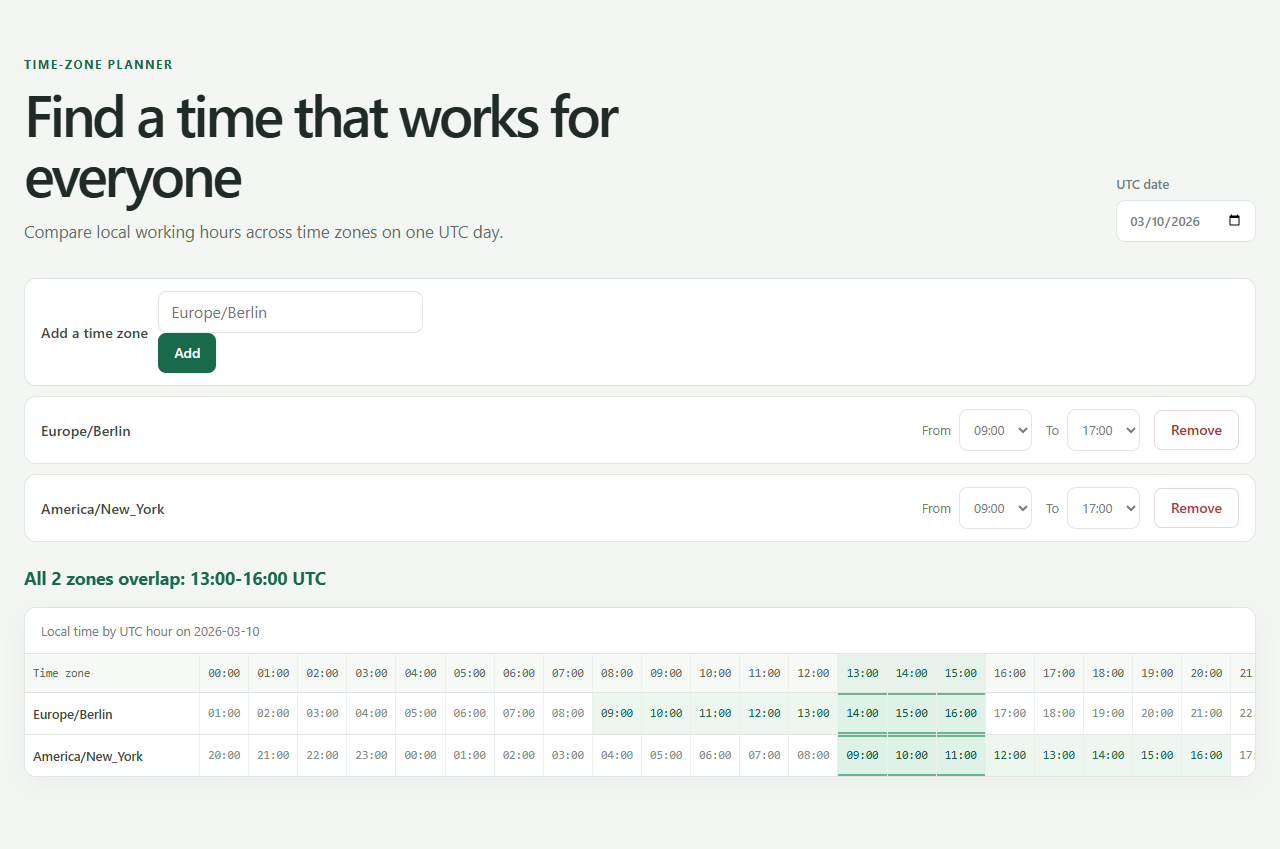
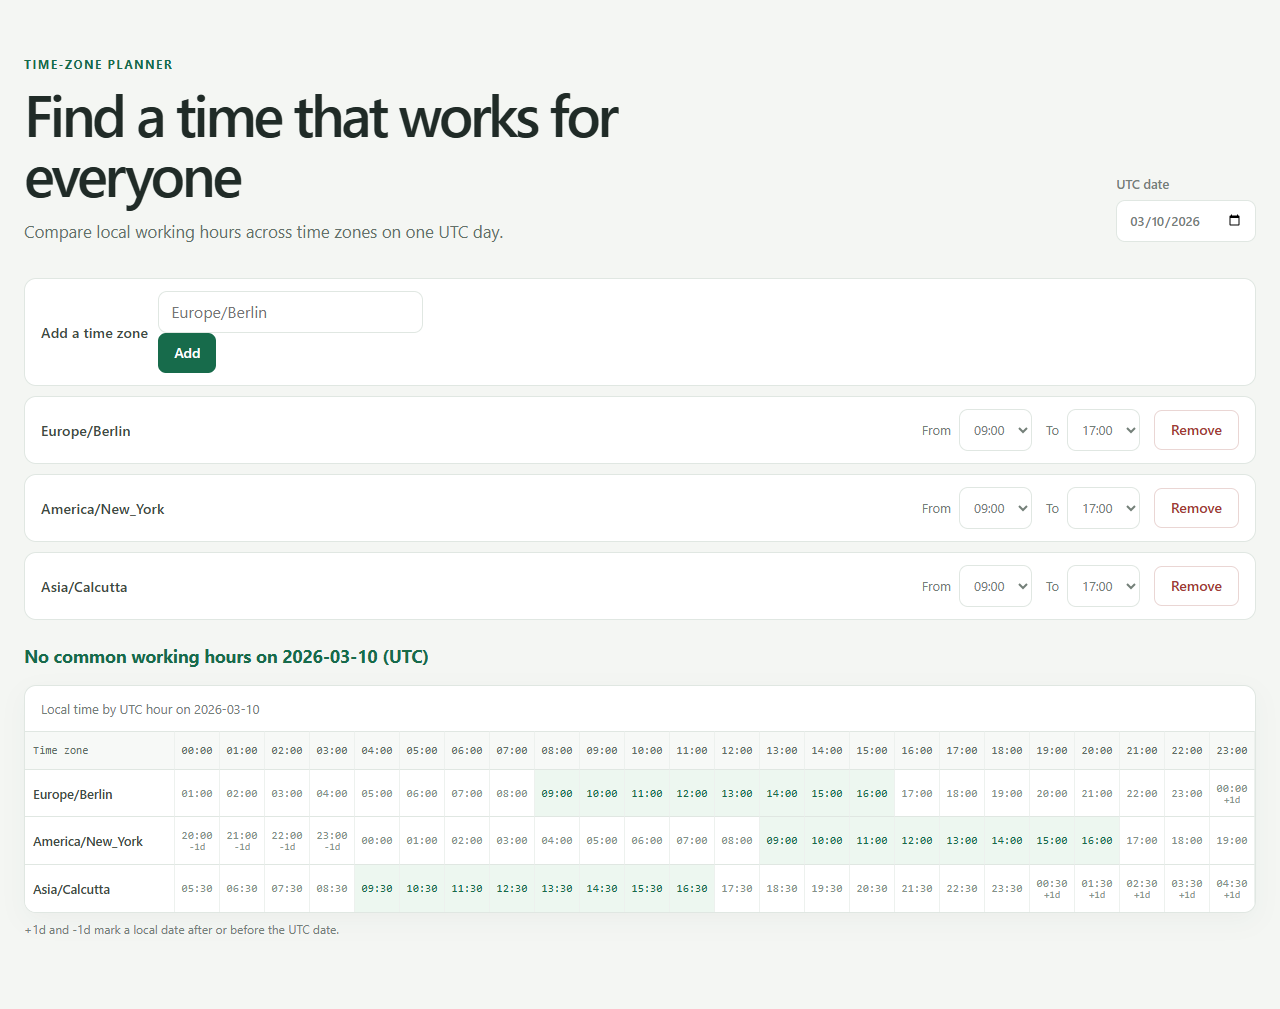
Mark cells whose local date differs from UTC and fit the grid in 1280px
Add dayOffset() and show +1d/-1d markers with a legend in the hour grid, so a column that is already tomorrow or still yesterday is visible. Tighten cell padding, font sizes and the zone-name column so all 24 columns fit a 1280px window; narrower windows still scroll inside the grid container. Refresh the README and screenshot.

diff --git a/tests/zoneslot.test.ts b/tests/zoneslot.test.ts
@@ -5,7 +5,7 @@ import { renderToStaticMarkup } from "react-dom/server";
 import { AddZoneForm } from "../src/AddZoneForm";
 import { App } from "../src/App";
 import { formatHash, parseHash } from "../src/hash";
-import { findOverlap, isWorking } from "../src/overlap";
+import { dayOffset, findOverlap, isWorking } from "../src/overlap";
 import {
   addZone,
   defaultState,
@@ -42,6 +42,16 @@ function renderedCells(date: string, zone: string, from: number, to: number) {
 }
 
 describe("Intl time and overlap calculations", () => {
+  test("compares local and UTC calendar-day offsets", () => {
+    expect(dayOffset("Asia/Kolkata", new Date("2026-03-10T20:00:00Z"))).toBe(1);
+    expect(dayOffset("Europe/Berlin", new Date("2026-03-10T23:00:00Z"))).toBe(1);
+    expect(dayOffset("Europe/Berlin", new Date("2026-03-10T12:00:00Z"))).toBe(0);
+    expect(dayOffset("America/New_York", new Date("2026-03-10T02:00:00Z"))).toBe(-1);
+    expect(dayOffset("Pacific/Honolulu", new Date("2026-03-10T09:00:00Z"))).toBe(-1);
+    expect(dayOffset("Pacific/Kiritimati", new Date("2026-03-10T10:00:00Z"))).toBe(1);
+    expect(dayOffset("Pacific/Kiritimati", new Date("2026-03-10T09:00:00Z"))).toBe(0);
+  });
+
   test("converts specified offsets, DST transitions, and fractional offsets", () => {
     expect(isWorking("Europe/Berlin", instant("2026-03-10", 13), 9, 17)).toBe(true);
     expect(isWorking("America/New_York", instant("2026-03-10", 13), 9, 17)).toBe(true);
@@ -253,6 +263,38 @@ describe("server-rendered components", () => {
     expect(markup).toContain('data-state="off"');
   });
 
+  test("marks local dates relative to UTC and conditionally renders the legend", () => {
+    const render = (hash: string) =>
+      renderToStaticMarkup(createElement(App, { now: fixedNow, initialHash: hash }));
+    const count = (markup: string, marker: string) =>
+      markup.split(`data-day="${marker}"`).length - 1;
+
+    const berlin = render("#d=2026-03-10&z=Europe/Berlin@9-17");
+    expect(count(berlin, "+1")).toBe(1);
+    expect(count(berlin, "-1")).toBe(0);
+    expect(berlin).toContain('data-day="+1">00:00</td>');
+
+    const newYork = render("#d=2026-03-10&z=America/New_York@9-17");
+    expect(count(newYork, "-1")).toBe(4);
+    expect(count(newYork, "+1")).toBe(0);
+    const kolkata = render("#d=2026-03-10&z=Asia/Kolkata@9-17");
+    expect(count(kolkata, "+1")).toBe(5);
+    expect(count(kolkata, "-1")).toBe(0);
+    const kolkataCells = renderedCells("2026-03-10", "Asia/Kolkata", 9, 17);
+    for (const cell of kolkataCells.slice(0, 19)) {
+      expect(cell.attributes).not.toContain("data-day");
+    }
+    expect(kolkataCells[18]).toMatchObject({ text: "23:30" });
+    for (const cell of kolkataCells.slice(19)) {
+      expect(cell.attributes).toContain('data-day="+1"');
+    }
+    expect(kolkataCells.slice(19)).toHaveLength(5);
+    expect(kolkata).toContain('class="hours-grid__off" data-day="+1">01:30</td>');
+    expect(berlin).toContain("grid-legend");
+    expect(berlin).toContain("+1d and -1d mark a local date after or before the UTC date.");
+    expect(render("#d=2026-03-10")).not.toContain("grid-legend");
+  });
+
   test("falls back on invalid hashes and excludes invalid ranges from overlap", () => {
     const invalidHashMarkup = renderToStaticMarkup(
       createElement(App, { now: fixedNow, initialHash: "#d=2026-02-30" }),
@@ -276,7 +318,40 @@ describe("server-rendered components", () => {
 });
 
 describe("project documentation and license", () => {
-  test("documents required commands and examples", () => {
+  test("constrains the grid layout and styles date markers", () => {
+    const styles = readFileSync("src/styles.css", "utf8");
+    const rule = (selector: string) => {
+      const expectedSelector = selector.replaceAll("\\n", "\n").replace(/\s+/g, " ").trim();
+      const block = styles.split("}").find((candidate) => {
+        const [candidateSelector] = candidate.split("{");
+        return candidateSelector.replace(/\s+/g, " ").trim() === expectedSelector;
+      });
+      return block?.slice(block.indexOf("{") + 1) ?? "";
+    };
+
+    expect(rule(".hours-grid th,\\n.hours-grid td")).toContain("padding: 12px 3px;");
+    const gridMinWidth = Number(rule(".hours-grid").split("min-width:")[1]?.trim().split("px")[0]);
+    expect(gridMinWidth).toBeLessThanOrEqual(1100);
+    expect(rule(".hours-grid td")).toContain("font-size: 0.7rem;");
+    expect(rule(".hours-grid thead th")).toContain("font-size: 0.7rem;");
+    const zoneHeader = rule(".hours-grid thead th:first-child,\\n.hours-grid tbody th");
+    expect(zoneHeader).toContain("min-width: 150px;");
+    expect(zoneHeader).toContain("width: 150px;");
+    expect(zoneHeader).toContain("max-width: 150px;");
+    expect(zoneHeader).toContain("white-space: normal;");
+    expect(zoneHeader).toContain("overflow-wrap: anywhere;");
+    expect(zoneHeader).toContain("padding-left: 8px;");
+    expect(zoneHeader).toContain("padding-right: 8px;");
+    expect(rule(".grid-scroll")).toContain("overflow-x: auto;");
+    expect(rule(".hours-grid td[data-day]::after")).toContain('content: attr(data-day) "d";');
+    expect(rule(".hours-grid td[data-day]::after")).toContain("display: block;");
+    expect(rule(".hours-grid td[data-day]::after")).toContain("font-size: 0.6rem;");
+    expect(rule(".hours-grid td[data-day]::after")).toContain("line-height: 1;");
+    expect(rule(".grid-legend")).toContain("color: var(--muted);");
+    expect(rule(".grid-legend")).toContain("margin: 8px 0 0;");
+  });
+
+  test("documents required commands, date markers, and examples", () => {
     const readme = readFileSync("README.md", "utf8");
     for (const required of [
       "bun run dev",
@@ -285,6 +360,10 @@ describe("project documentation and license", () => {
       "bun run build",
       "#d=2026-03-10&z=Europe/Berlin@9-17,America/New_York@9-17",
       "All 2 zones overlap: 13:00-16:00 UTC",
+      "`+1d` or `-1d` marker",
+      "The legend below the grid explains the markers.",
+      "`Asia/Kolkata` at 20 UTC reads `01:30` with a `+1d` marker.",
+      "Asia/Calcutta",
     ]) {
       expect(readme).toContain(required);
     }

diff --git a/src/App.tsx b/src/App.tsx
@@ -1,7 +1,7 @@
 import { useEffect, useRef, useState } from "react";
 import { AddZoneForm } from "./AddZoneForm";
 import { formatHash, parseHash } from "./hash";
-import { findOverlap, isWorking } from "./overlap";
+import { dayOffset, findOverlap, isWorking } from "./overlap";
 import { addZone, defaultState, type PlannerState, removeZone, setDate, setRange } from "./state";
 import { ZoneRow } from "./ZoneRow";
 
@@ -134,12 +134,14 @@ export function App({ now, initialHash, onHashChange }: AppProps) {
                 {Array.from({ length: 24 }, (_, hour) => {
                   const instant = utcDateAtHour(state.date, hour);
                   const working = isWorking(zone, instant, from, to);
+                  const offset = dayOffset(zone, instant);
                   return (
                     <td
                       key={formatHour(hour)}
                       data-state={working ? "work" : "off"}
                       data-overlap={overlappingHours.has(hour) ? "true" : "false"}
                       className={working ? "hours-grid__work" : "hours-grid__off"}
+                      data-day={offset === 0 ? undefined : offset > 0 ? "+1" : "-1"}
                     >
                       {formatLocalTime(zone, instant)}
                     </td>
@@ -150,6 +152,9 @@ export function App({ now, initialHash, onHashChange }: AppProps) {
           </tbody>
         </table>
       </div>
+      {state.zones.length > 0 && (
+        <p className="grid-legend">+1d and -1d mark a local date after or before the UTC date.</p>
+      )}
     </main>
   );
 }

diff --git a/src/styles.css b/src/styles.css
@@ -204,7 +204,7 @@ h1 {
 
 .hours-grid {
   width: 100%;
-  min-width: 1160px;
+  min-width: 1100px;
   border-collapse: separate;
   border-spacing: 0;
   font-size: 0.8rem;
@@ -218,7 +218,7 @@ h1 {
 
 .hours-grid th,
 .hours-grid td {
-  padding: 12px 8px;
+  padding: 12px 3px;
   border-top: 1px solid var(--line);
   border-right: 1px solid #edf1ee;
   text-align: center;
@@ -231,7 +231,7 @@ h1 {
   background: #f7f9f7;
   color: #606d65;
   font-family: "DM Mono", monospace;
-  font-size: 0.72rem;
+  font-size: 0.7rem;
   font-weight: 500;
 }
 
@@ -240,7 +240,13 @@ h1 {
   position: sticky;
   left: 0;
   z-index: 1;
-  min-width: 175px;
+  min-width: 150px;
+  width: 150px;
+  max-width: 150px;
+  white-space: normal;
+  overflow-wrap: anywhere;
+  padding-left: 8px;
+  padding-right: 8px;
   background: #fff;
   text-align: left;
 }
@@ -258,7 +264,20 @@ h1 {
 .hours-grid td {
   color: #839088;
   font-family: "DM Mono", monospace;
-  font-size: 0.73rem;
+  font-size: 0.7rem;
+}
+
+.hours-grid td[data-day]::after {
+  content: attr(data-day) "d";
+  display: block;
+  font-size: 0.6rem;
+  line-height: 1;
+}
+
+.grid-legend {
+  margin: 8px 0 0;
+  color: var(--muted);
+  font-size: 0.75rem;
 }
 
 .hours-grid td.hours-grid__work {

diff --git a/src/overlap.ts b/src/overlap.ts
@@ -13,6 +13,26 @@ function dateAtUtcHour(dateISO: string, hour: number): Date {
   return new Date(`${dateISO}T${String(hour).padStart(2, "0")}:00:00.000Z`);
 }
 
+/** Returns the local calendar date's offset from the instant's UTC date. */
+export function dayOffset(zone: string, instant: Date): -1 | 0 | 1 {
+  const parts = new Intl.DateTimeFormat("en-US", {
+    timeZone: zone,
+    year: "numeric",
+    month: "2-digit",
+    day: "2-digit",
+  }).formatToParts(instant);
+  const partValue = (type: "year" | "month" | "day"): number =>
+    Number(parts.find((part) => part.type === type)?.value);
+  const localDate = [partValue("year"), partValue("month"), partValue("day")];
+  const utcDate = [instant.getUTCFullYear(), instant.getUTCMonth() + 1, instant.getUTCDate()];
+
+  for (let index = 0; index < localDate.length; index += 1) {
+    if (localDate[index] < utcDate[index]) return -1;
+    if (localDate[index] > utcDate[index]) return 1;
+  }
+  return 0;
+}
+
 function localMinutes(zone: string, instant: Date): number {
   const parts = new Intl.DateTimeFormat("en-US", {
     timeZone: zone,

diff --git a/README.md b/README.md
@@ -27,6 +27,8 @@ Open the address that Vite prints. To serve a production build, run `bun run bui
 
 The grid shows one UTC day: 24 columns, `00` to `23` UTC, with one row per zone. Each cell shows the local time of that UTC hour in that zone (`HH:MM`, so Kolkata at 13 UTC shows `18:30`). Cells inside the zone's working hours are marked as working; columns where every valid zone is working are highlighted, and a summary line states the shared hours.
 
+A `+1d` or `-1d` marker beneath a time means its local calendar date is one day after or before the UTC date, respectively. The legend below the grid explains the markers. For example, `Asia/Kolkata` at 20 UTC reads `01:30` with a `+1d` marker.
+
 The state lives in the URL hash, so a plan can be shared as a link. For example, Berlin and New York, both working 09:00-17:00, on 2026-03-10:
 
 ```text
